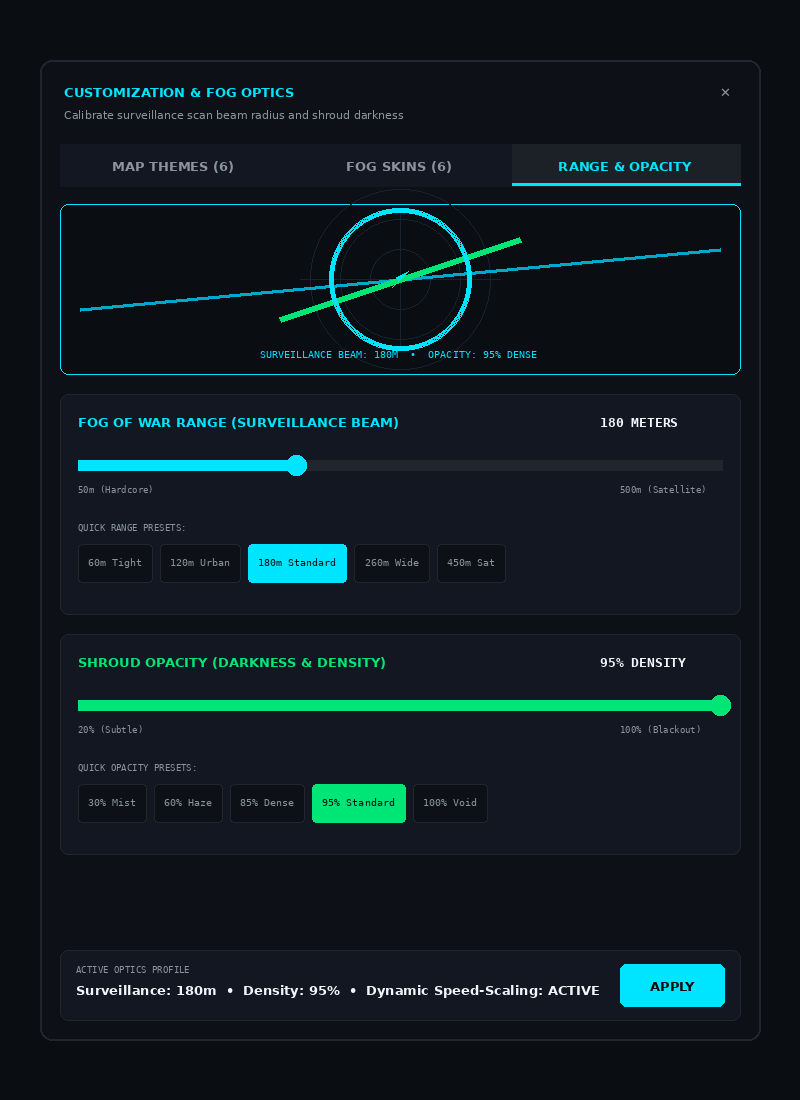
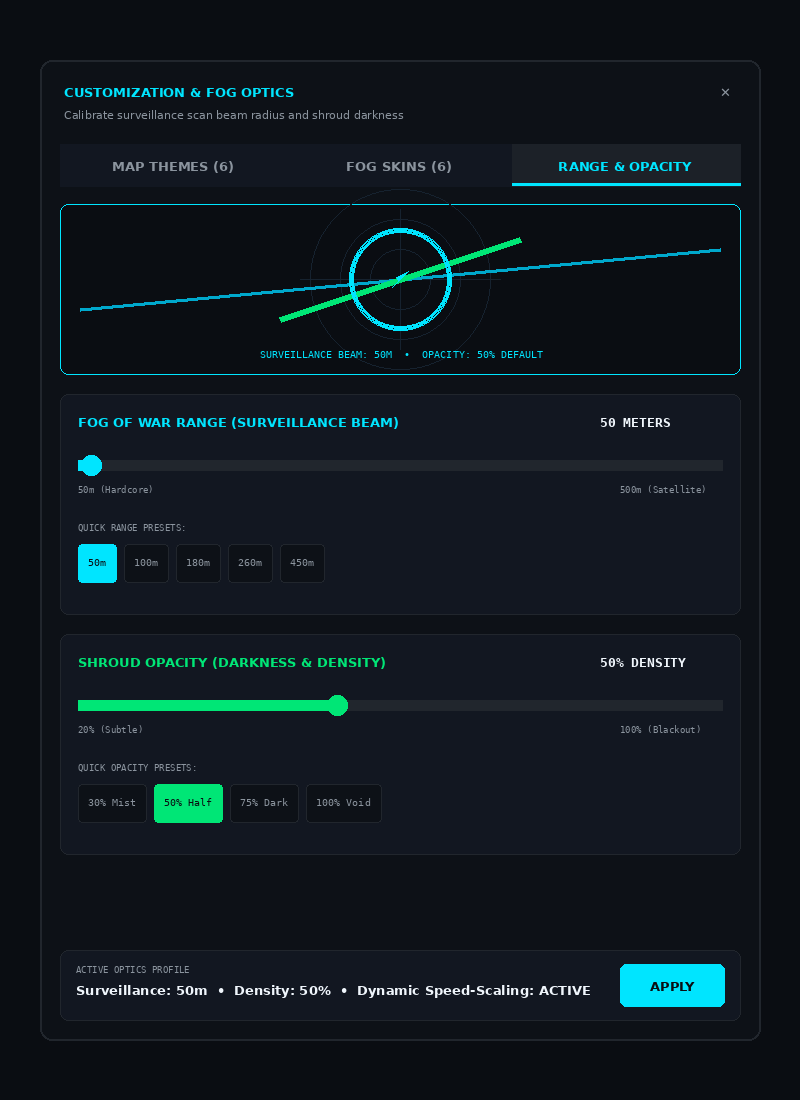
docs: update screenshots with 50m / 50% optics defaults and active map fog shroud

diff --git a/generate_recondrive_screenshots.py b/generate_recondrive_screenshots.py
@@ -424,27 +424,28 @@ def generate_screenshot_04():
     # Explored track
     draw.line([(mcx - 120, mcy + 40), (mcx, mcy), (mcx + 120, mcy - 40)], fill='#00E676', width=6)
 
-    # Cleared Circle (180m radius scaled)
+    # Cleared Circle (50m radius scaled)
+    mini_r = 48
     for gr in (3, 2, 1):
-        draw.ellipse([(mcx - 68 - gr, mcy - 68 - gr), (mcx + 68 + gr, mcy + 68 + gr)], outline='#00E5FF', width=1)
-    draw.ellipse([(mcx - 68, mcy - 68), (mcx + 68, mcy + 68)], outline='#00E5FF', width=2)
+        draw.ellipse([(mcx - mini_r - gr, mcy - mini_r - gr), (mcx + mini_r + gr, mcy + mini_r + gr)], outline='#00E5FF', width=1)
+    draw.ellipse([(mcx - mini_r, mcy - mini_r), (mcx + mini_r, mcy + mini_r)], outline='#00E5FF', width=2)
     
     # Player marker
     draw.polygon([(mcx + 8, mcy - 8), (mcx - 4, mcy - 2), (mcx - 2, mcy + 2), (mcx - 8, mcy + 8)], fill='#00E5FF')
 
-    draw.text((mcx - 140, mini_y + mini_h - 26), "SURVEILLANCE BEAM: 180M  •  OPACITY: 95% DENSE", fill='#00E5FF', font=FONT_MONO_SM)
+    draw.text((mcx - 140, mini_y + mini_h - 26), "SURVEILLANCE BEAM: 50M  •  OPACITY: 50% DEFAULT", fill='#00E5FF', font=FONT_MONO_SM)
 
     # 2. Fog Range Slider Card
     card1_y = mini_y + mini_h + 20
     draw.rounded_rectangle([(mx + 20, card1_y), (mx + mw - 20, card1_y + 220)], radius=8, fill='#121721', outline='#21262D', width=1)
     draw.text((mx + 38, card1_y + 20), "FOG OF WAR RANGE (SURVEILLANCE BEAM)", fill='#00E5FF', font=FONT_HEAD)
-    draw.text((mx + mw - 160, card1_y + 20), "180 METERS", fill='#F0F6FC', font=FONT_MONO)
+    draw.text((mx + mw - 160, card1_y + 20), "50 METERS", fill='#F0F6FC', font=FONT_MONO)
 
     # Slider Track
     sl_y = card1_y + 66
     draw.rectangle([(mx + 38, sl_y), (mx + mw - 38, sl_y + 10)], fill='#21262D')
-    # Active track (180m / 500m ~ 32%)
-    sl_active = (mx + mw - 76) * 0.32
+    # Active track (50m / 500m min position)
+    sl_active = (mx + mw - 76) * 0.02
     draw.rectangle([(mx + 38, sl_y), (mx + 38 + sl_active, sl_y + 10)], fill='#00E5FF')
     draw.ellipse([(mx + 38 + sl_active - 10, sl_y - 5), (mx + 38 + sl_active + 10, sl_y + 15)], fill='#00E5FF')
 
@@ -453,7 +454,7 @@ def generate_screenshot_04():
 
     # Preset Buttons
     draw.text((mx + 38, card1_y + 128), "QUICK RANGE PRESETS:", fill='#8B949E', font=FONT_MONO_XS)
-    presets = [("60m Tight", False), ("120m Urban", False), ("180m Standard", True), ("260m Wide", False), ("450m Sat", False)]
+    presets = [("50m", True), ("100m", False), ("180m", False), ("260m", False), ("450m", False)]
     px = mx + 38
     for ptxt, is_sel in presets:
         pw = draw.textlength(ptxt, font=FONT_MONO_SM) + 20
@@ -467,13 +468,13 @@ def generate_screenshot_04():
     card2_y = card1_y + 240
     draw.rounded_rectangle([(mx + 20, card2_y), (mx + mw - 20, card2_y + 220)], radius=8, fill='#121721', outline='#21262D', width=1)
     draw.text((mx + 38, card2_y + 20), "SHROUD OPACITY (DARKNESS & DENSITY)", fill='#00E676', font=FONT_HEAD)
-    draw.text((mx + mw - 160, card2_y + 20), "95% DENSITY", fill='#F0F6FC', font=FONT_MONO)
+    draw.text((mx + mw - 160, card2_y + 20), "50% DENSITY", fill='#F0F6FC', font=FONT_MONO)
 
     # Slider Track
     sl2_y = card2_y + 66
     draw.rectangle([(mx + 38, sl2_y), (mx + mw - 38, sl2_y + 10)], fill='#21262D')
-    # Active track (95% ~ 94%)
-    sl2_active = (mx + mw - 76) * 0.94
+    # Active track (50% ~ 38%)
+    sl2_active = (mx + mw - 76) * 0.38
     draw.rectangle([(mx + 38, sl2_y), (mx + 38 + sl2_active, sl2_y + 10)], fill='#00E676')
     draw.ellipse([(mx + 38 + sl2_active - 10, sl2_y - 5), (mx + 38 + sl2_active + 10, sl2_y + 15)], fill='#00E676')
 
@@ -482,7 +483,7 @@ def generate_screenshot_04():
 
     # Presets
     draw.text((mx + 38, card2_y + 128), "QUICK OPACITY PRESETS:", fill='#8B949E', font=FONT_MONO_XS)
-    opac_presets = [("30% Mist", False), ("60% Haze", False), ("85% Dense", False), ("95% Standard", True), ("100% Void", False)]
+    opac_presets = [("30% Mist", False), ("50% Half", True), ("75% Dark", False), ("100% Void", False)]
     px = mx + 38
     for optxt, is_sel in opac_presets:
         pw = draw.textlength(optxt, font=FONT_MONO_SM) + 20
@@ -495,7 +496,7 @@ def generate_screenshot_04():
     # Bottom Active Summary Bar
     draw.rounded_rectangle([(mx + 20, my + mh - 90), (mx + mw - 20, my + mh - 20)], radius=8, fill='#121721', outline='#21262D', width=1)
     draw.text((mx + 36, my + mh - 76), "ACTIVE OPTICS PROFILE", fill='#8B949E', font=FONT_MONO_XS)
-    draw.text((mx + 36, my + mh - 58), "Surveillance: 180m  •  Density: 95%  •  Dynamic Speed-Scaling: ACTIVE", fill='#F0F6FC', font=FONT_HEAD)
+    draw.text((mx + 36, my + mh - 58), "Surveillance: 50m  •  Density: 50%  •  Dynamic Speed-Scaling: ACTIVE", fill='#F0F6FC', font=FONT_HEAD)
 
     draw.rounded_rectangle([(mx + mw - 140, my + mh - 76), (mx + mw - 36, my + mh - 34)], radius=6, fill='#00E5FF')
     draw.text((mx + mw - 110, my + mh - 62), "APPLY", fill='#0A0D12', font=FONT_HEAD)
@@ -689,7 +690,7 @@ def generate_screenshot_06():
     draw.line([(cx, cy + 20), (cx + 120, cy + 140), (cx + 240, cy + 260)], fill='#00A8CC', width=4)
     draw.line([(cx, cy + 20), (cx - 80, cy + 140), (cx - 180, cy + 280)], fill='#00A8CC', width=4)
 
-    # 4. Explored Fog of War Trail & Cleared Perimeter
+    # 4. Explored Fog of War Trail & 50m / 50% Active Shroud
     explored_trail = [
         (cx - 180, cy + 140),
         (cx - 80, cy + 70),
@@ -700,11 +701,19 @@ def generate_screenshot_06():
     for gw in (20, 14, 6):
         draw.line(explored_trail, fill='#00E676' if gw == 6 else '#004D25', width=gw)
 
-    # Cleared surveillance beam
-    beam_r = 160.0
+    # Fog of War 50% Shroud (Mask outside cleared 50m beam)
+    beam_r = 95.0
+    shroud = Image.new('RGBA', (W, H), (7, 10, 15, 128))  # 50% opacity
+    shroud_draw = ImageDraw.Draw(shroud)
+    shroud_draw.ellipse([(cx - beam_r, cy - beam_r), (cx + beam_r, cy + beam_r)], fill=(0, 0, 0, 0))
+    img.paste(shroud, (0, 0), shroud)
+
+    # Cleared surveillance beam glowing perimeter
     for gr in (3, 2, 1):
         draw.ellipse([(cx - beam_r - gr, cy - beam_r - gr), (cx + beam_r + gr, cy + beam_r + gr)], outline='#00E5FF', width=1)
     draw.ellipse([(cx - beam_r, cy - beam_r), (cx + beam_r, cy + beam_r)], outline='#00E5FF', width=2)
+    # Inner pulse ring
+    draw.ellipse([(cx - beam_r * 0.9, cy - beam_r * 0.9), (cx + beam_r * 0.9, cy + beam_r * 0.9)], outline='#00E5FF44', width=1)
 
     # 5. Target Waypoint (Amber destination pin & dashed route line)
     wp_x, wp_y = cx + 180, cy - 200
@@ -792,8 +801,15 @@ def generate_screenshot_06():
     draw.ellipse([(fab_x - 6, 470), (fab_x + 54, 530)], fill='#00E5FF', outline='#00E5FF', width=2)
     draw.text((fab_x + 12, 488), "🎯", fill='#0A0D12', font=FONT_TITLE)
 
-    # 9. Bottom Destination Card (Waypointed to M1/North)
+    # Telemetry Badge
     card_y = H - 250
+    telem_y = card_y - 75
+    draw.rounded_rectangle([(24, telem_y), (220, telem_y + 62)], radius=6, fill='#121721EE', outline='#21262D', width=1)
+    draw.text((36, telem_y + 8), "Z13.5 • 51.5074°N, 0.1278°W", fill='#00E5FF', font=FONT_MONO_XS)
+    draw.text((36, telem_y + 24), "LOCK: GPS VEHICLE", fill='#00E676', font=FONT_MONO_XS)
+    draw.text((36, telem_y + 40), "FOG: 50m @ 50%", fill='#00E5FF', font=FONT_MONO_XS)
+
+    # 9. Bottom Destination Card (Waypointed to M1/North)
     draw.rounded_rectangle([(24, card_y), (W - 24, card_y + 130)], radius=12, fill='#121721', outline='#00E5FF', width=1)
     draw.text((44, card_y + 16), "TACTICAL WAYPOINT // M1 CORRIDOR", fill='#FFD600', font=FONT_HEAD)
     draw.text((44, card_y + 40), "Distance: 14.2 km  •  ETA: ~18 min  •  Heading: 352° N", fill='#F0F6FC', font=FONT_MONO_SM)
